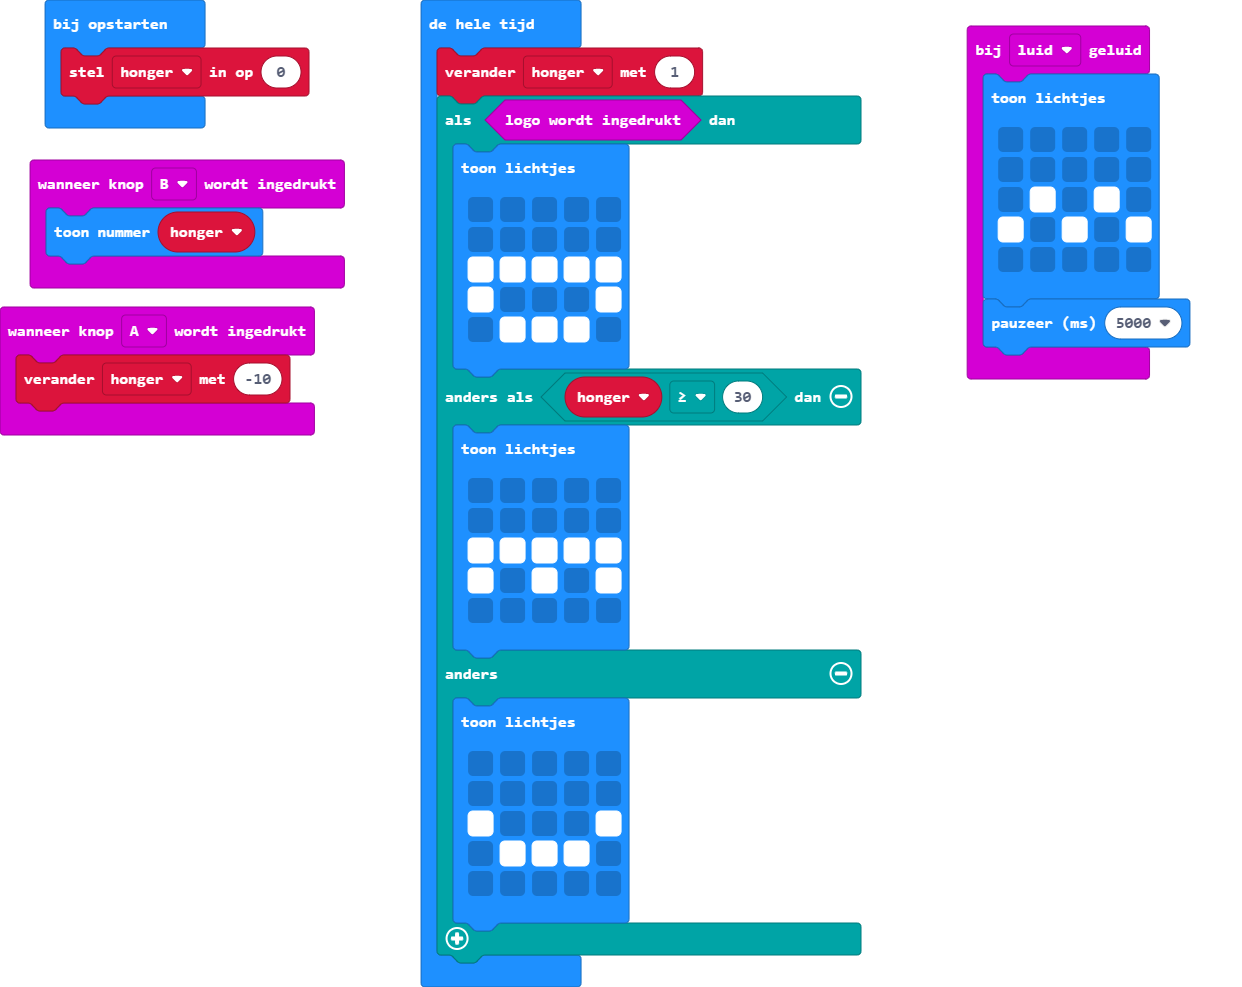
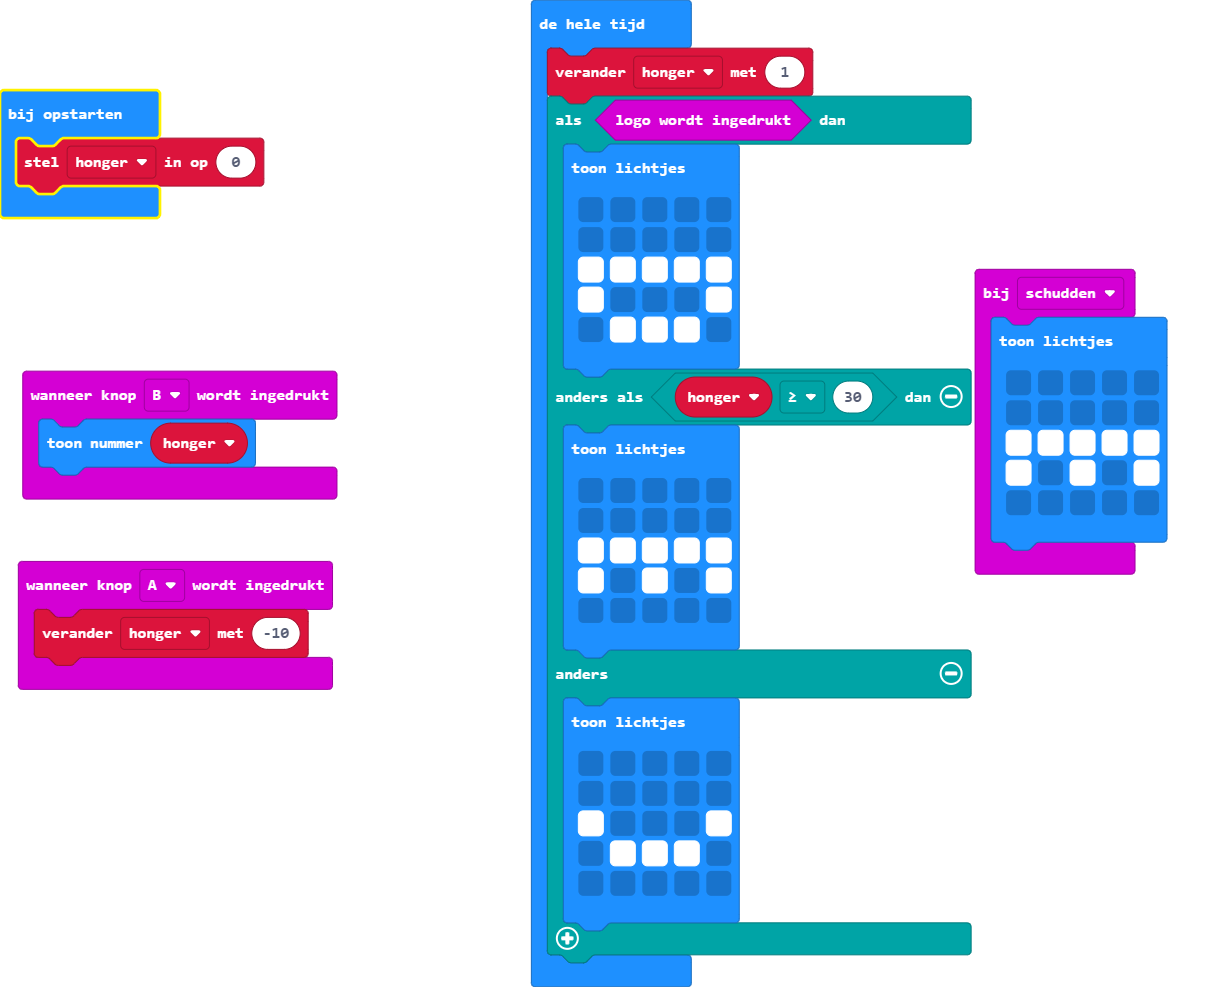
main.blocks, main.ts bijwerken

diff --git a/main.ts b/main.ts
@@ -1,18 +1,17 @@
 input.onButtonPressed(Button.A, function () {
     honger += -10
 })
-input.onButtonPressed(Button.B, function () {
-    basic.showNumber(honger)
-})
-input.onSound(DetectedSound.Loud, function () {
+input.onGesture(Gesture.Shake, function () {
     basic.showLeds(`
         . . . . .
         . . . . .
-        . # . # .
+        # # # # #
         # . # . #
         . . . . .
         `)
-    basic.pause(5000)
+})
+input.onButtonPressed(Button.B, function () {
+    basic.showNumber(honger)
 })
 let honger = 0
 honger = 0
